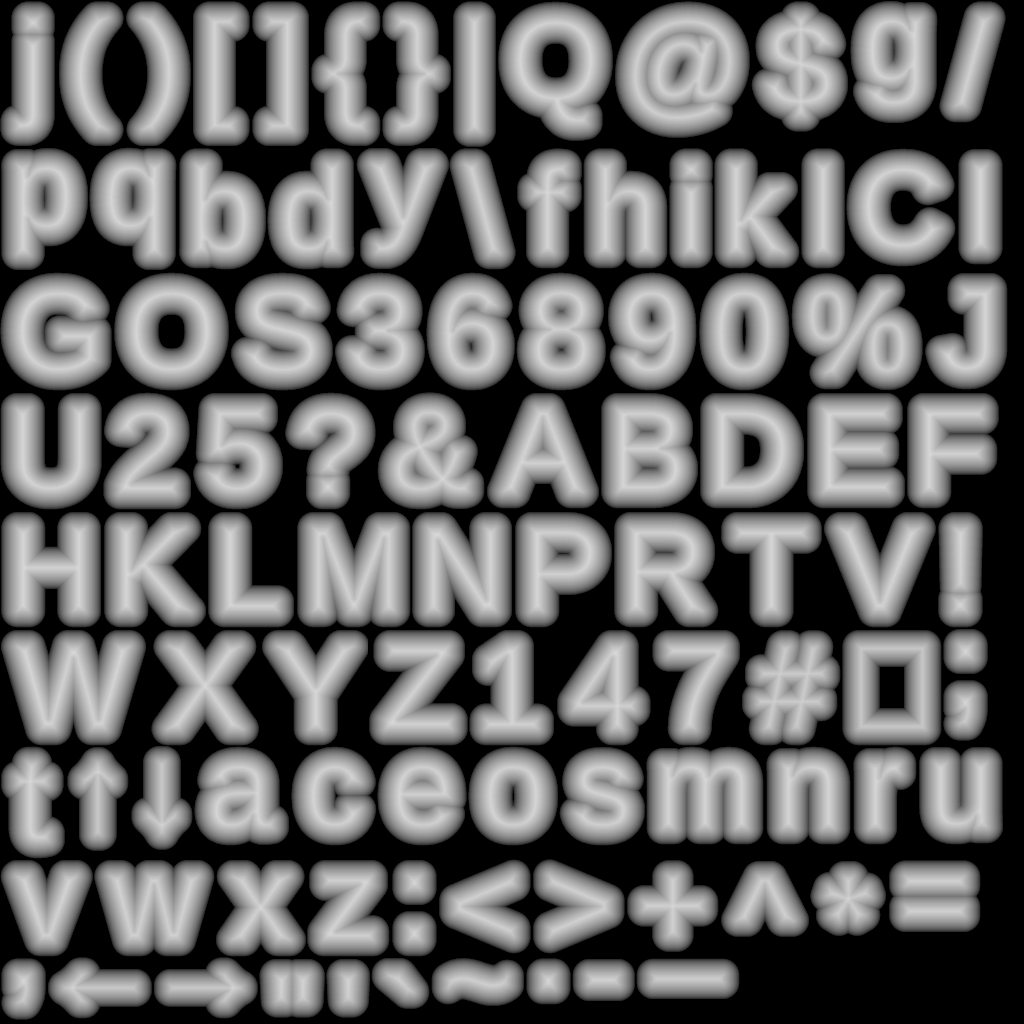
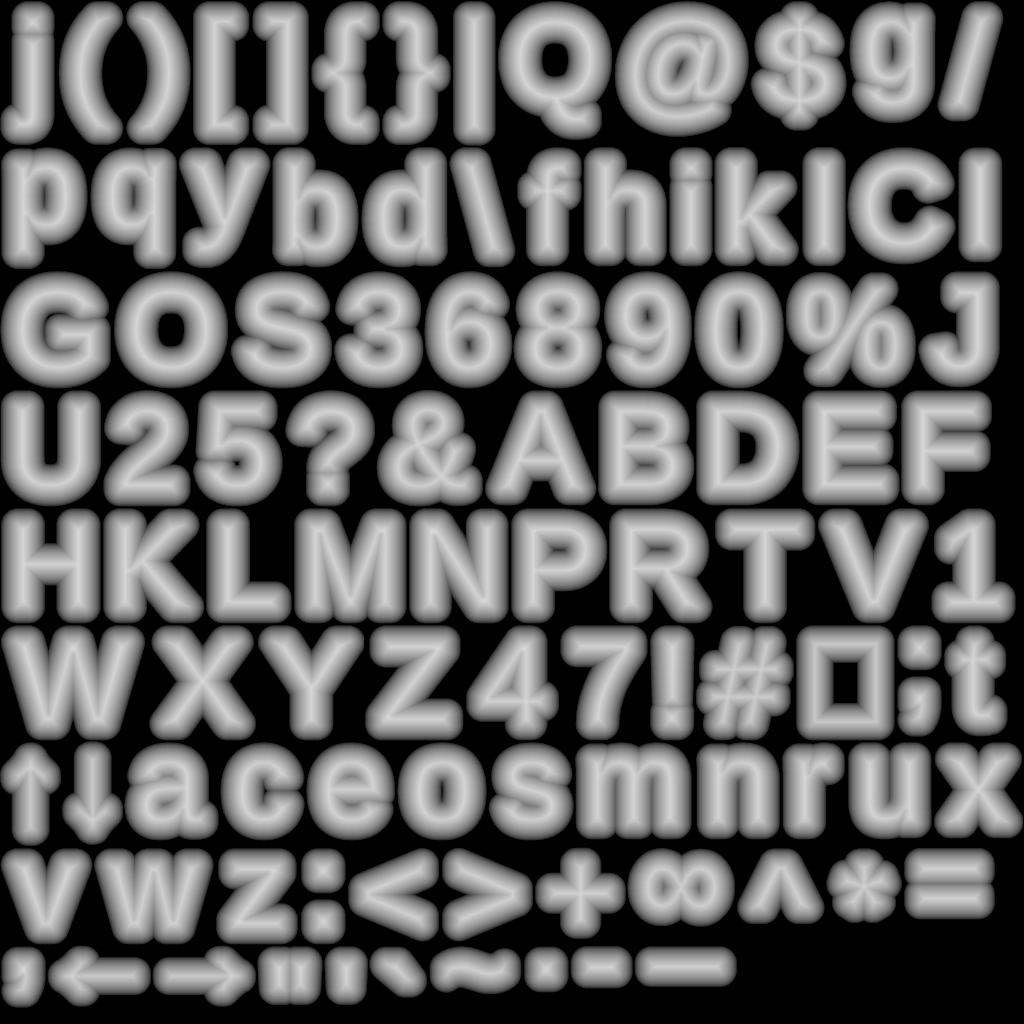
Added infinity symbol to font

diff --git a/project/src/arenashooter/game/gameStates/engineParam/GameParam.java b/project/src/arenashooter/game/gameStates/engineParam/GameParam.java
@@ -37,7 +37,7 @@ public class GameParam {
 			if (getValue() != -1) {
 				return getValue().toString();
 			} else {
-				return Character.getName('\u221E');
+				return "\u221E";
 			}
 		}
 	};
